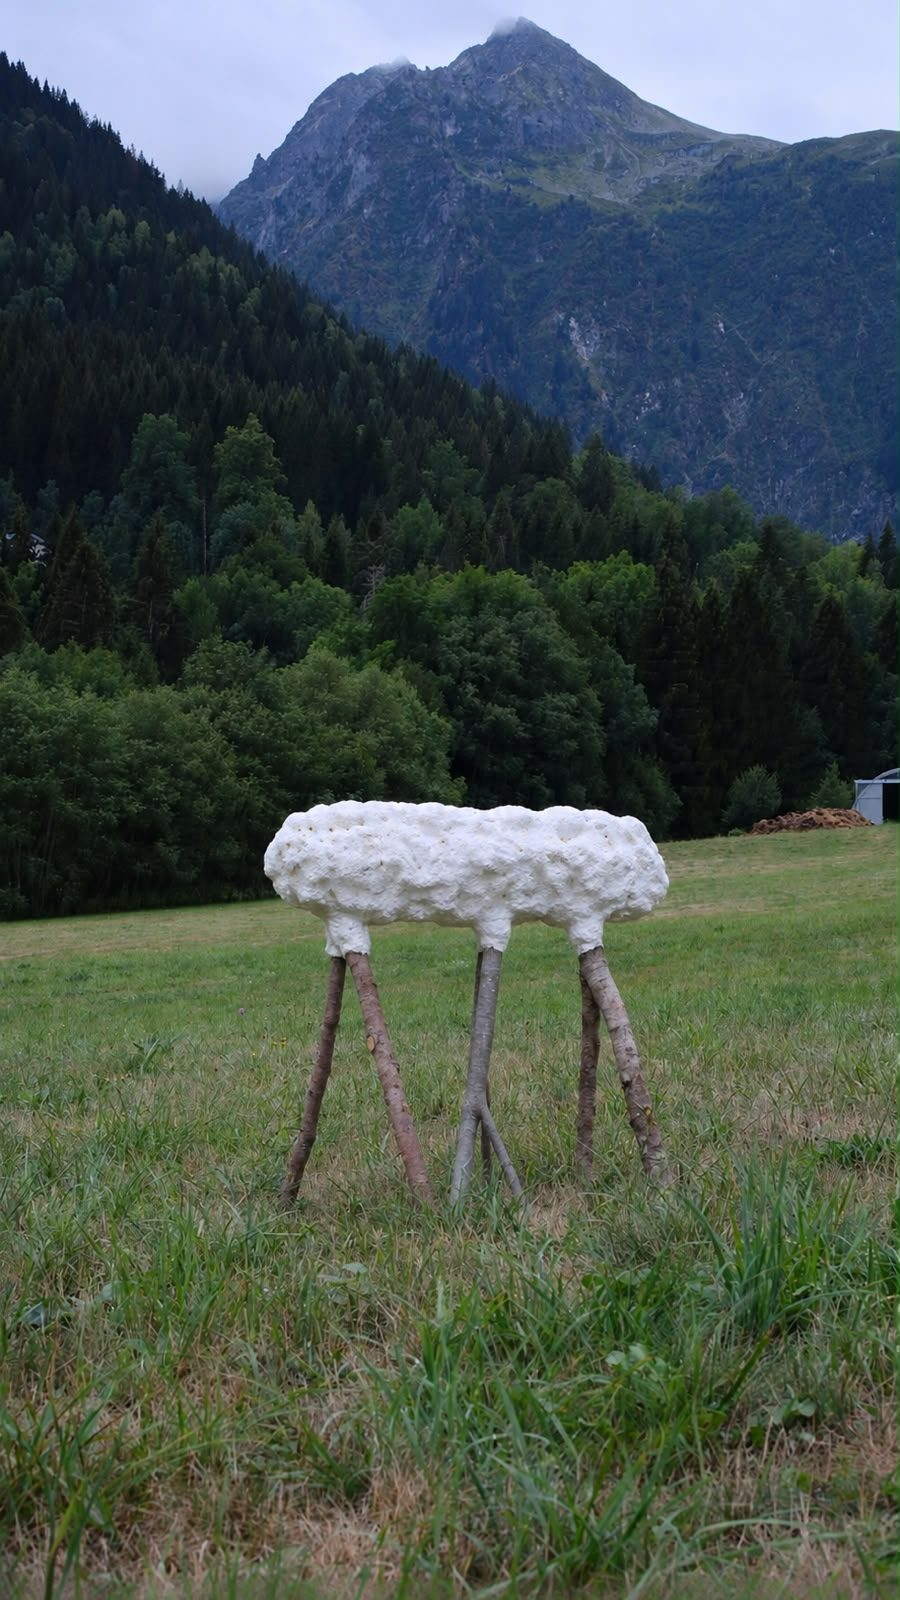
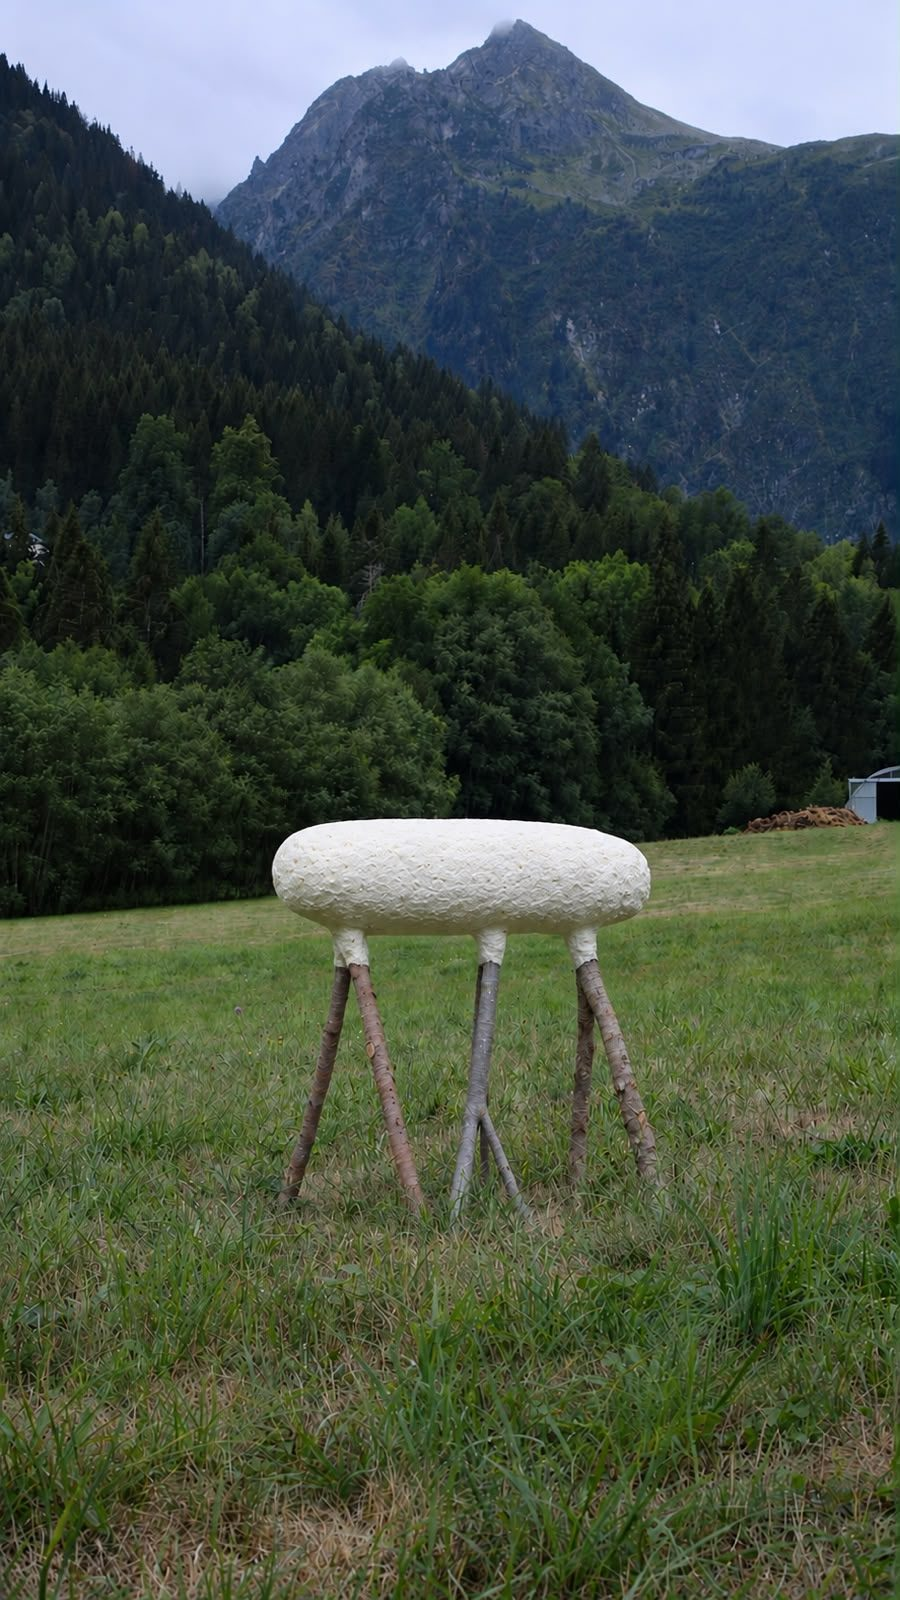
Couverture : le tabouret achevé. Briques et blocs retirés
Les briques et les blocs de mycélium ne sont pas les échantillons du studio :
ils sortent de la fiche. La couverture passe au tabouret démoulé, debout dans
le pré, et les blocs de la galerie cèdent la place au substrat ensemencé
étalé avant moulage — celui-là est bien du projet.

LIMITE ASSUMÉE. Le tabouret achevé n'existe qu'en 900 px : les trois fichiers
« Final » sont des exports tardifs, et le reportage s'arrête à DSCF3447, où
l'assise est encore sous film. La couverture est donc agrandie à 1800 px de
large, au Lanczos plutôt qu'en laissant le navigateur s'en charger. La texture
tient à l'écran, mais si l'original de ces trois vues réapparaît, il suffit de
le substituer dans le script.

Cette vue sous film, elle, est nette et pleine définition : elle rejoint la
section Matière, en diptyque avec le substrat, où elle documente la prise.

diff --git a/src/lib/project-stool.ts b/src/lib/project-stool.ts
@@ -57,6 +57,7 @@ const fr = {
 
   matiere: {
     label: "La matière",
+    cultureAlt: "Le tabouret monté dans le pré, l'assise encore sous film pendant la prise",
     heading:
       "Le mycélium n'est pas un liant que l'on mélange : c'est un organisme que l'on nourrit, et qui prend la forme du moule où on l'installe.",
     items: [
@@ -84,7 +85,7 @@ const fr = {
       "La toison de laine posée sur l'ossature de branches, dans le pré",
       "Le carnet de croquis et les branches choisies, posés côte à côte",
       "Une ligature d'éclisse serrée sur le croisement de deux branches",
-      "Des blocs de mycélium de formes diverses, sur l'établi",
+      "Le substrat ensemencé, étalé avant la mise en moule",
       "L'établi monté dans le pré, le substrat étalé sur la bâche",
       "Les pieds du tabouret mis en terre à la bêche",
     ],
@@ -116,7 +117,7 @@ const fr = {
 
   cta: "Pour un devis ou un renseignement, écrivez-nous à",
 
-  openingAlt: "Deux briques de mycélium tenues en main, à contre-jour",
+  openingAlt: "Le tabouret achevé dans le pré, la montagne derrière",
   finalAlt: "Le tabouret achevé, assise de mycélium sur trois pieds de branches",
 };
 
@@ -161,6 +162,7 @@ const en: StoolContent = {
 
   matiere: {
     label: "The material",
+    cultureAlt: "The stool set up in the meadow, the seat still under film while it takes",
     heading:
       "Mycelium is not a binder you mix in: it is an organism you feed, and it takes the shape of the mould you settle it in.",
     items: [
@@ -188,7 +190,7 @@ const en: StoolContent = {
       "The wool fleece set over the branch frame, in the meadow",
       "The sketchbook and the chosen branches, laid side by side",
       "A cane lashing drawn tight over the crossing of two branches",
-      "Mycelium blocks of various shapes, on the workbench",
+      "The inoculated substrate, spread out before moulding",
       "The bench set up in the meadow, the substrate spread on the sheet",
       "The stool's legs driven into the ground with a spade",
     ],
@@ -220,7 +222,7 @@ const en: StoolContent = {
 
   cta: "For a quote or any question, write to us at",
 
-  openingAlt: "Two mycelium bricks held in the hand, against the light",
+  openingAlt: "The finished stool in the meadow, the mountain behind",
   finalAlt: "The finished stool, a mycelium seat on three branch legs",
 };
 
@@ -265,6 +267,7 @@ const pl: StoolContent = {
 
   matiere: {
     label: "Materiał",
+    cultureAlt: "Taboret ustawiony na łące, siedzisko jeszcze pod folią w trakcie wiązania",
     heading:
       "Grzybnia nie jest spoiwem, które się miesza: to organizm, który się karmi, i który przyjmuje kształt formy, w jakiej się go osadzi.",
     items: [
@@ -292,7 +295,7 @@ const pl: StoolContent = {
       "Runo wełny położone na konstrukcji z gałęzi, na łące",
       "Szkicownik i wybrane gałęzie, złożone obok siebie",
       "Wiązanie z taśmy zaciągnięte na skrzyżowaniu dwóch gałęzi",
-      "Bloki z grzybni o różnych kształtach, na warsztacie",
+      "Zaszczepione podłoże, rozłożone przed formowaniem",
       "Warsztat ustawiony na łące, podłoże rozłożone na plandece",
       "Nogi taboretu wbite w ziemię szpadlem",
     ],
@@ -324,7 +327,7 @@ const pl: StoolContent = {
 
   cta: "W sprawie wyceny lub pytań napiszcie do nas:",
 
-  openingAlt: "Dwie cegły z grzybni trzymane w dłoni, pod światło",
+  openingAlt: "Gotowy taboret na łące, w tle góra",
   finalAlt: "Gotowy taboret, siedzisko z grzybni na trzech nogach z gałęzi",
 };
 

diff --git a/src/components/StoolPage.tsx b/src/components/StoolPage.tsx
@@ -23,7 +23,7 @@ const reveal = {
   transition: { duration: 1, ease: [0.4, 0, 0.2, 1] as const },
 };
 
-const galerie = ["laine", "carnet", "ligature", "blocs", "pre", "plantation"];
+const galerie = ["laine", "carnet", "ligature", "substrat-detail", "pre", "plantation"];
 
 export function StoolPage() {
   const { language } = useLanguage();
@@ -139,11 +139,16 @@ export function StoolPage() {
               </div>
             ))}
           </motion.div>
-          <motion.figure {...reveal} className="pp-figure pp-figure-wide"
-                         style={{ marginTop: "3.5rem" }}>
-            <img loading="lazy" decoding="async"
-                 src="/images/tabouret/substrat.jpg" alt={t.matiere.items[0].d} />
-          </motion.figure>
+          <motion.div {...reveal} className="pp-duo" style={{ marginTop: "3.5rem" }}>
+            <figure className="pp-figure pp-figure-wide pp-duo-a">
+              <img loading="lazy" decoding="async"
+                   src="/images/tabouret/culture.jpg" alt={t.matiere.cultureAlt} />
+            </figure>
+            <figure className="pp-figure pp-figure-square pp-duo-b">
+              <img loading="lazy" decoding="async"
+                   src="/images/tabouret/substrat.jpg" alt={t.matiere.items[0].d} />
+            </figure>
+          </motion.div>
         </div>
       </section>
 

diff --git a/scripts/import_stool_images.py b/scripts/import_stool_images.py
@@ -16,6 +16,13 @@ ligatures, le substrat, la culture, l'objet fini. Les vues d'atelier avec
 participants sont écartées — ce sont celles d'un atelier collectif, la fiche
 parle d'un objet.
 
+LIMITE CONNUE. Le tabouret achevé n'existe qu'en 900 px : les trois fichiers
+« Final » sont des exports tardifs, et le reportage s'arrête à DSCF3447, où
+l'assise est encore sous film. La couverture est donc agrandie à 1800 px de
+large — au Lanczos plutôt qu'en laissant le navigateur le faire, mais
+agrandie tout de même. Si l'original de ces trois vues réapparaît, il suffit
+de le substituer ici.
+
 Usage : python3 scripts/import_stool_images.py
 """
 import os
@@ -33,11 +40,16 @@ WANTED = {
     # Ouverture pleine largeur : l'ossature et son moule montés dans le pré.
     # La bande d'ouverture est en 1,7/1, la photo en 16/9 : on recadre pour
     # que le cadrage automatique ne coupe pas le montage.
-    # Pas de recadrage préalable : la bande d'ouverture applique déjà un
-    # cover, et pré-recadrer en 16/7 revenait à zoomer deux fois. Une source
-    # en PAYSAGE est indispensable — une portrait, comme la vue à la toison,
-    # se retrouve agrandie au point de ne plus montrer que son sujet central.
-    'ouverture':       ('DSCF3215.JPG', None),        # deux briques de mycélium en main
+    # Le tabouret achevé, en pleine définition — les fichiers « Final » n'en
+    # sont que des exports à 900 px, inutilisables en pleine largeur.
+    #
+    # La photo est en portrait et la bande d'ouverture applique un cover. Deux
+    # pièges s'annulent ici : on recadre en 4/3 seulement, pas en 16/7 (une
+    # bande étroite prise dans un portrait ne montrerait qu'une tranche), et
+    # on exporte à 1800 px de LARGE et non de grand côté, sans quoi la bande
+    # agrandirait l'image. L'ancrage descend le cadre sur le tabouret, qui est
+    # dans la moitié basse.
+    'ouverture':       ('Process/Final_3.JPG', 4 / 3, 0.58, 'largeur'),
 
     # Le lieu : une vallée, une ferme, un toit de lauzes. Le projet parle de
     # matériaux d'ici — encore faut-il montrer où est cet ici.
@@ -51,14 +63,15 @@ WANTED = {
     'carnet':          ('Process/Process_013.JPG', None),  # le carnet et les bois
 
     # La matière : le mycélium, avant le tabouret.
-    'blocs':           ('DSCF3224.JPG', None),        # les blocs sur l'établi
+    'substrat-detail': ('DSCF3433.JPG', None),        # le substrat étalé, de près
     'substrat':        ('Process/Process_0112.JPG', None),  # le substrat en main
 
     # La culture, la mise en terre, l'objet.
     'laine':           ('DSCF3408.JPG', None),        # la toison sur l'ossature
     'pre':             ('Process/Process_018.JPG', None),  # l'établi monté dans le pré
     'plantation':      ('DSCF3421.JPG', None),        # les pieds mis en terre
-    'tabouret':        ('Process/Final_3.JPG', None), # le tabouret, debout
+    'culture':         ('DSCF3447.JPG', None),        # monté dans le pré, assise encore sous film
+    'tabouret':        ('Process/Final_2.JPG', None), # le tabouret démoulé, debout
 }
 
 
@@ -89,6 +102,7 @@ avant = apres = 0
 for nom, spec in WANTED.items():
     rel, ratio = spec[0], spec[1]
     ancrage = spec[2] if len(spec) > 2 else 0.5
+    plafond = spec[3] if len(spec) > 3 else 'grand'
     im = charge(rel)
     if im is None:
         print(f'  MANQUANT  {rel}')
@@ -104,9 +118,10 @@ for nom, spec in WANTED.items():
             l = round(im.height * ratio)
             im = im.crop(((im.width - l) // 2, 0, (im.width - l) // 2 + l, im.height))
 
-    grand = max(im.width, im.height)
-    if grand > MAXW:
-        k = MAXW / grand
+    reference = im.width if plafond == 'largeur' else max(im.width, im.height)
+    # Agrandissement toléré pour la seule couverture : voir la note en tête.
+    if reference > MAXW or (plafond == 'largeur' and reference < MAXW):
+        k = MAXW / reference
         im = im.resize((round(im.width * k), round(im.height * k)), Image.LANCZOS)
     dst = os.path.join(OUT, nom + '.jpg')
     im.save(dst, 'JPEG', quality=Q, optimize=True, progressive=True)
